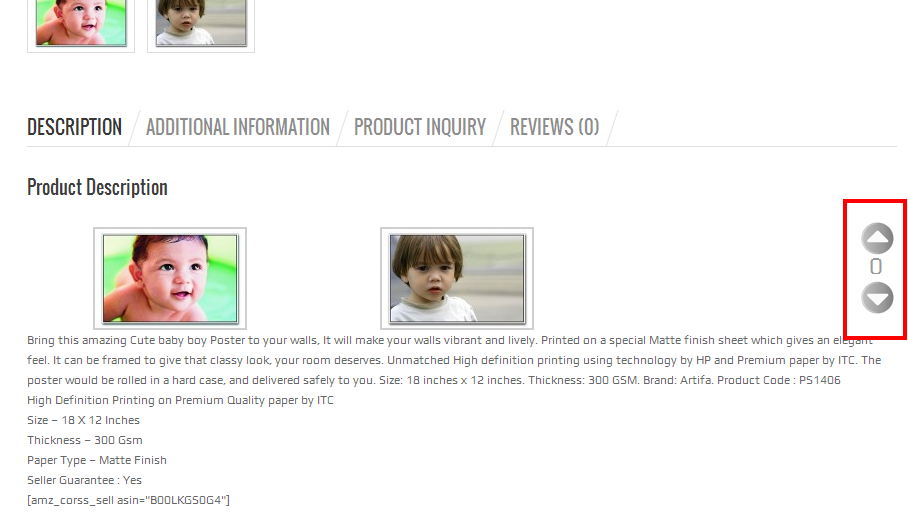
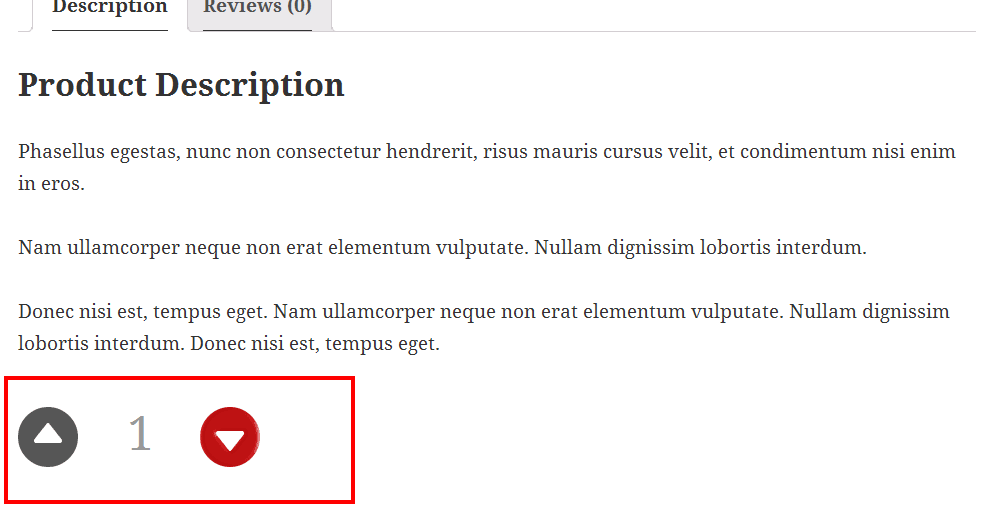
version : 2.1
git-svn-id: https://plugins.svn.wordpress.org/voter-plugin/trunk@1118782 b8457f37-d9ea-0310-8a92-e5e31aec5664

diff --git a/css/voter.css b/css/voter.css
@@ -1,11 +1,19 @@
-.aheadzen_voter_css{ background-image: url('../images/buttons.png')!important; background-color: #cccccc; background-repeat:no-repeat;height: 35px!important;display: block!important;padding:0 !important;}
-.aheadzen_vote{width: 40px;}
-.aheadzen_vote .alignright {float: right;}
-.aheadzen_vote .vote-up-off{background-position:0 -35px!important;cursor: default;}
-.aheadzen_vote  .vote-up-on{background-position:0 0 !important; }
-.aheadzen_vote  .vote-down-off{background-position:0 -105px !important; cursor: default;}
-.aheadzen_vote  .vote-down-on{background-position:0% -70px !important;}
-.aheadzen_vote  .vote-count-post{font-size: 2em;text-align: center;color: #999;margin: 0.5em;}
+.aheadzen_voter_css{background-repeat:no-repeat;width: 150px; height:63px!important;display: block!important;padding:0 !important;}
+.thumbs_up_down{background-image: url('../images/thumbs.png')!important;width: 63px;}
+.aheadzen_vote .vote-up-off.thumbs_up_down{background-position:0 0!important;}
+.aheadzen_vote  .vote-up-on.thumbs_up_down{background-position:0px -82px !important; }
+.aheadzen_vote  .vote-down-off.thumbs_up_down{background-position:-64px -23px !important;}
+.aheadzen_vote  .vote-down-on.thumbs_up_down{background-position:-64px -105px !important;}
+.button_up_down{background-image: url('../images/up-arrow.png')!important;width: 63px;}
+.aheadzen_vote .vote-up-off.button_up_down{background-position:-81px -5px !important;}
+.aheadzen_vote  .vote-up-on.button_up_down{background-position:-81px -79px !important; }
+.aheadzen_vote  .vote-down-off.button_up_down{background-position:-8px -5px !important;}
+.aheadzen_vote  .vote-down-on.button_up_down{background-position:-8px -79px !important;}
+
+.aheadzen_vote{width:100%;}
+/*.aheadzen_vote .alignright {float: right;}*/
+.aheadzen_vote a.aheadzen_voter_css, .aheadzen_vote  a.aheadzen_vote{ float:left; margin-top:15px; border: medium none;text-decoration: none;}
+.aheadzen_vote  .vote-count-post{font-size:2.5em;text-align: center;color: #999;margin:0 0.2em; float:left;min-width: 100px;}
 .aheadzen_vote  .ajaxloading{background:url('../images/ajax-loader.gif') center center no-repeat;width: 30px;height: 30px;}
 .aheadzen_vote span{ display: inline-block!important;}
 .like_unlike_vote{float:none !important; display: inline-block; clear:both; margin: 0;}

diff --git a/voter_functions.php b/voter_functions.php
@@ -139,6 +139,9 @@ class VoterPluginClass {
 		$the_result = $params['result'];
 		unset($params['result']);
 		
+		$voting_options = get_option('aheadzen_voter_display_options');
+		if($voting_options==2){$votetype = ' thumbs_up_down ';}elseif($voting_options==3){$votetype = ' button_up_down ';}
+		
 		$post_id = $params['item_id'];
 		$linkurl = VoterPluginClass::aheadzen_get_current_page_url();
 		$total_votes = VoterPluginClass::aheadzen_get_total_votes($params);
@@ -162,12 +165,12 @@ class VoterPluginClass {
 			$title_up = $title_down = __('please login to vote','aheadzen');
 			$url_up = $url_down = '#';
 		}
-		
-		$voting_options = get_option('aheadzen_voter_display_options');
+		$class_up .= $votetype;
+		$class_down .= $votetype;
 		if($voting_options==1)
 		{
 			$votestr.= '<div id="aheadzen_voting_'.$params['secondary_item_id'].'_'.$params['item_id'].'_'.$params['component'].'" class="aheadzen_vote alignright like_unlike_vote">';
-			if($is_voted){
+			if($is_voted!=''){
 				if($is_voted=='up')
 				{
 					$votestr.= '<a rel="nofollow" title="'.$title_up.'" class="aheadzen_voter_css ' . $class_up . '" href="' . $url_up . '">'.__('Unlike','aheadzen').' <span>('.$total_votes.')</span></a>';
@@ -179,7 +182,7 @@ class VoterPluginClass {
 			}
 			$votestr.= '</div>';
 		}else{
-			if($is_voted){
+			if($is_voted!=''){
 				if($is_voted=='up')
 				{
 					$class_up = 'vote-up-off';
@@ -191,10 +194,12 @@ class VoterPluginClass {
 					$class_up = 'vote-up-on';
 					$class_down = 'vote-down-off';
 					$title_down = __('already voted','aheadzen');
-					$url_down = '#';
+					//$url_down = '#';
 				}
+				$class_up .= $votetype;
+				$class_down .= $votetype;
 			}
-		
+			
 			$votestr.= '<div id="aheadzen_voting_'.$params['secondary_item_id'].'_'.$params['item_id'].'_'.$params['component'].'" class="aheadzen_vote alignright">';	
 			
 			$votestr.= '<a rel="nofollow" title="'.$title_up.'" class="aheadzen_voter_css ' . $class_up . '" href="' . $url_up . '"></a>';
@@ -280,7 +285,8 @@ class VoterPluginClass {
 						$wpdb->query($sql);
 						$result = '0';
 					}else{				
-						$sql = "update `".$table_prefix."ask_votes` set action=\"$action\" where id=\"$voted_id\"";
+						//$sql = "update `".$table_prefix."ask_votes` set action=\"$action\" where id=\"$voted_id\"";
+						$sql = "delete from `".$table_prefix."ask_votes` where id=\"$voted_id\"";
 						$wpdb->query($sql);
 					}				
 				}else{

diff --git a/admin_settings.php b/admin_settings.php
@@ -62,7 +62,8 @@ class VoterAdminClass {
 					<select name="aheadzen_voter_display_options" id="aheadzen_voter_display_options">
 					<option value=""><?php _e(' -- Select One -- ','aheadzen');?></option>
 					<option value="1" <?php if($display_options=='1'){echo 'selected';}?>><?php _e('Simple Like/Unlike','aheadzen');?></option>
-					<option value="2" <?php if($display_options=='2'){echo 'selected';}?>><?php _e('Voting Up/Down Arrow','aheadzen');?></option>
+					<option value="2" <?php if($display_options=='2'){echo 'selected';}?>><?php _e('Thumbs up/down','aheadzen');?></option>
+					<option value="3" <?php if($display_options=='3'){echo 'selected';}?>><?php _e('Up/Down Button','aheadzen');?></option>
 					</select>
 					</p>
 					</label>

diff --git a/voter.php b/voter.php
@@ -4,7 +4,7 @@ Plugin Name: Voter Plugin
 Plugin URI: http://aheadzen.com/
 Description: The plugin added votes option for pages, post, custom post types, comments, buddypress activity, groups, member profiles, woocommerce products etc. <br />You can control display option from <a href="options-general.php?page=voter" target="_blank"><b>Plugin Settings >></b></a>
 Author: Aheadzen Team  | <a href="options-general.php?page=voter" target="_blank">Manage Plugin Settings</a>
-Version: 2.0.2
+Version: 2.1.0
 Author URI: http://aheadzen.com/
 
 Copyright: © 2014-2015 ASK-ORACLE.COM
